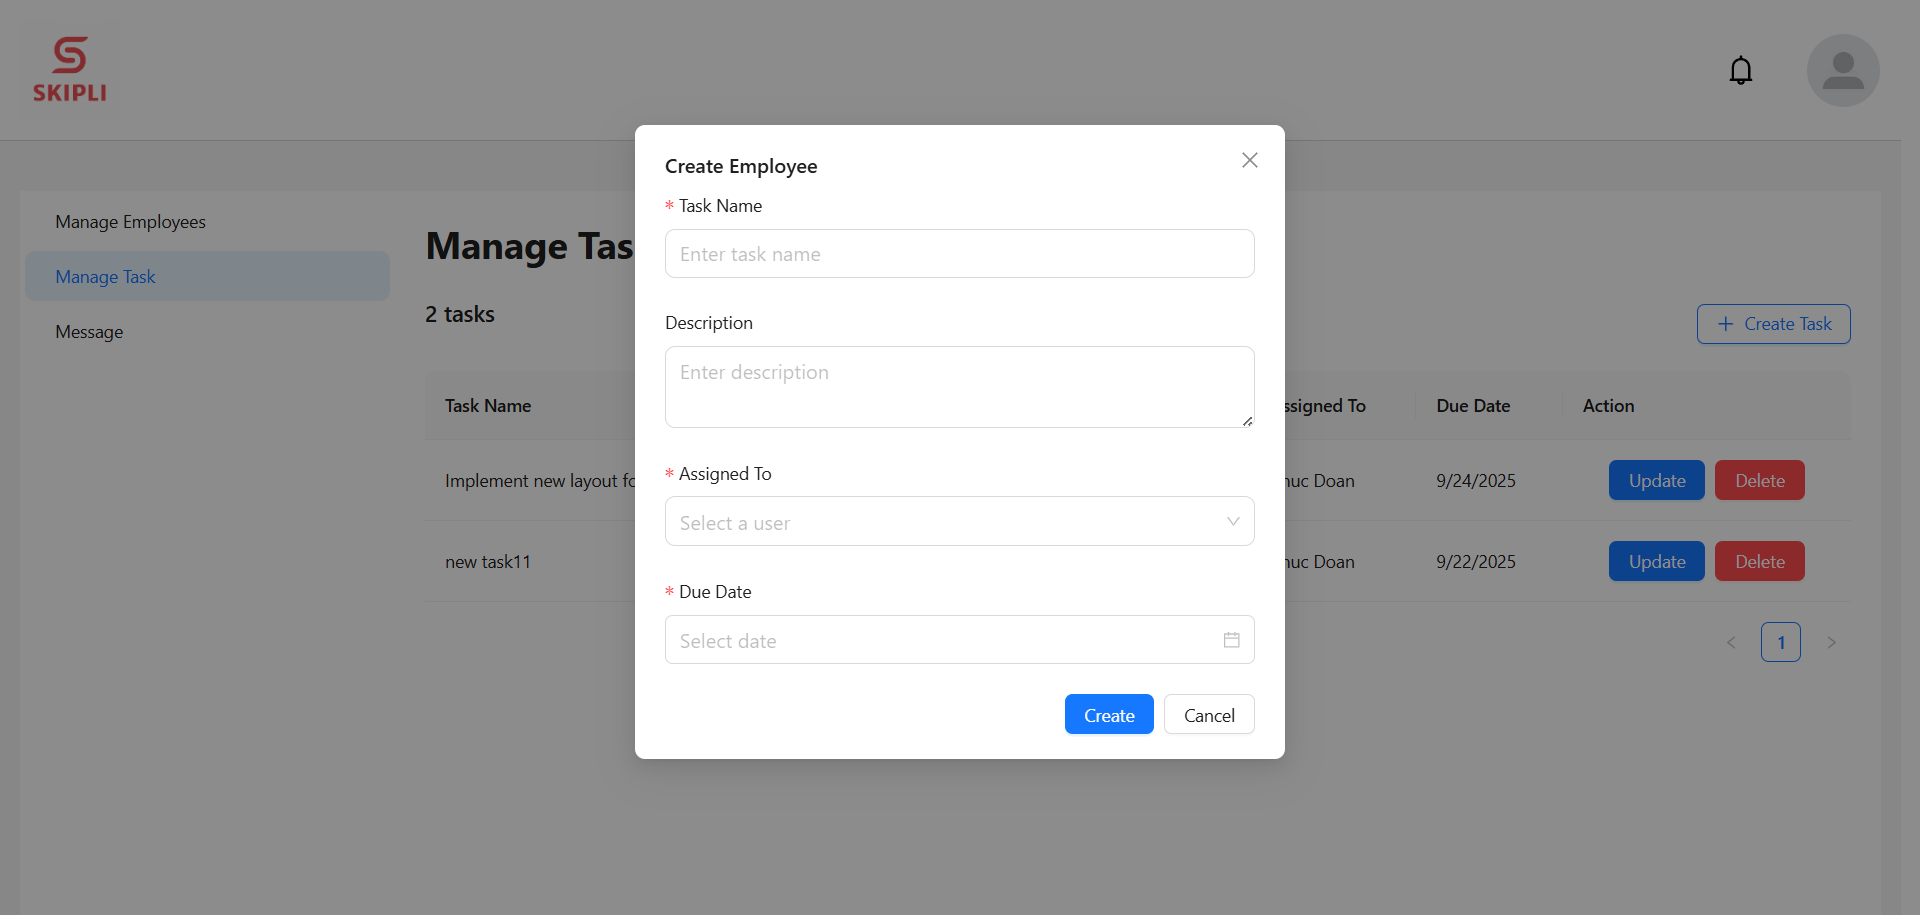
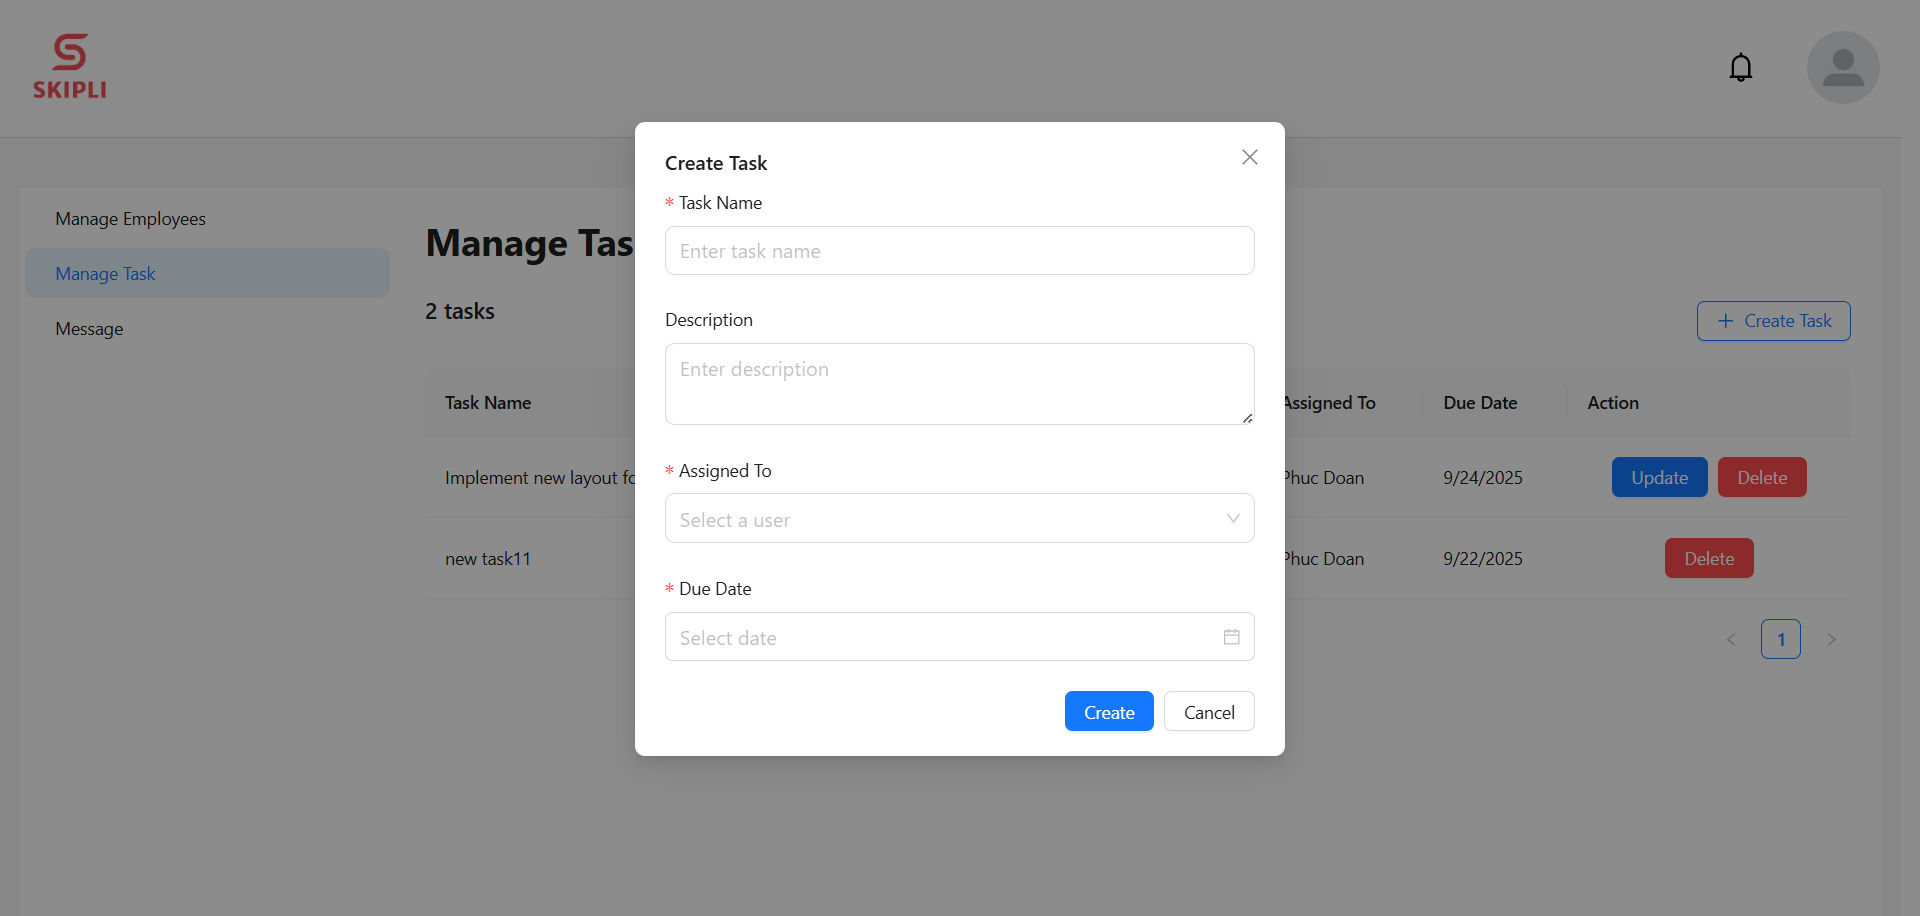
fix: fix wrong title for task form

diff --git a/frontend/src/pages/dashboard/ManageTaskPage/updateTask.jsx b/frontend/src/pages/dashboard/ManageTaskPage/updateTask.jsx
@@ -59,7 +59,7 @@ function UpdateTask({ record, onUpdate, employeeList }) {
         Update
       </Button>
       <Modal
-        title="Create Employee"
+        title="Update task"
         open={isOpen}
         onCancel={handleCancel}
         footer={null}

diff --git a/frontend/src/pages/dashboard/ManageTaskPage/createTask.jsx b/frontend/src/pages/dashboard/ManageTaskPage/createTask.jsx
@@ -45,7 +45,7 @@ function CreateTask({ onCreate, employeeList }) {
         Create Task
       </Button>
       <Modal
-        title="Create Employee"
+        title="Create Task"
         open={isOpen}
         onCancel={handleCancel}
         footer={null}
